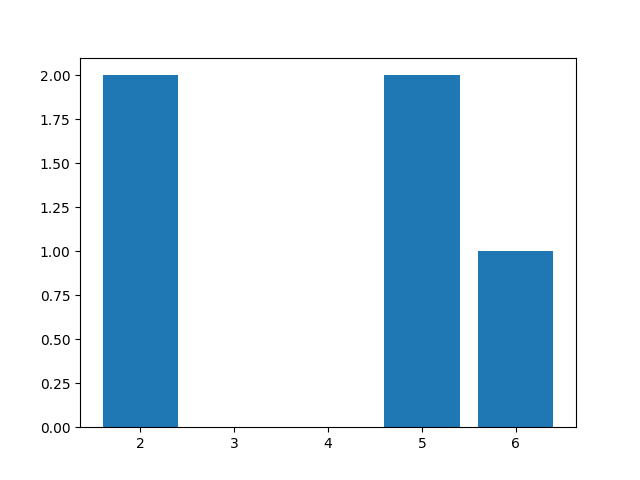
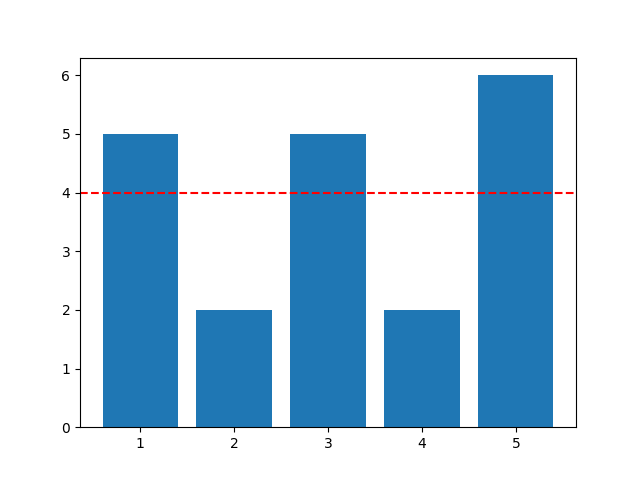
07.04

diff --git a/laba2/graph/views.py b/laba2/graph/views.py
@@ -20,11 +20,14 @@ def graph(request):
             x = np.arange(1, len(data)+1)
             DATA = list(zip(x, data))
             plt.plot(x, data)
+            plt.axhline (y=sum(data)/len(data), color='red', linestyle='--') 
             fig.savefig('static/saved_figure1.png')
             fig.clear()
-            plt.bar(data, [data.count(el) for el in data])
+            plt.bar(x, data)
+            plt.axhline (y=sum(data)/len(data), color='red', linestyle='--') 
             fig.savefig('static/saved_figure2.png')
         except ValueError:
+            print('Errore')
             pass
     context['data'] = [el[1] for el in DATA]
     tmp_DATA = DATA.copy()
